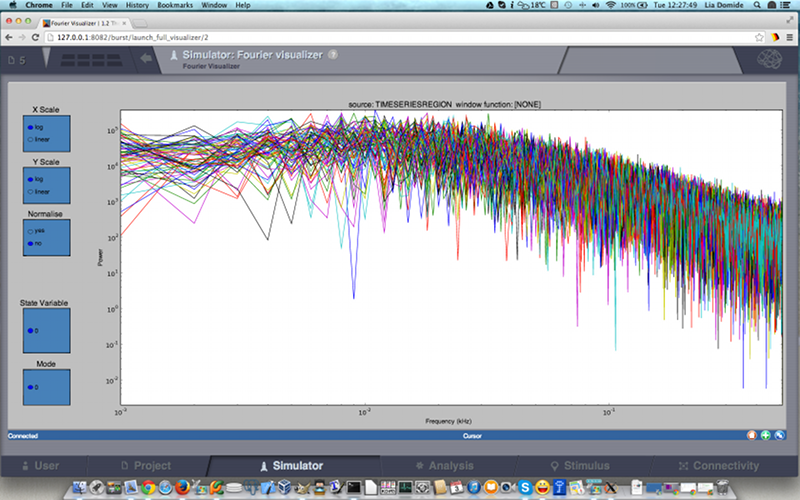
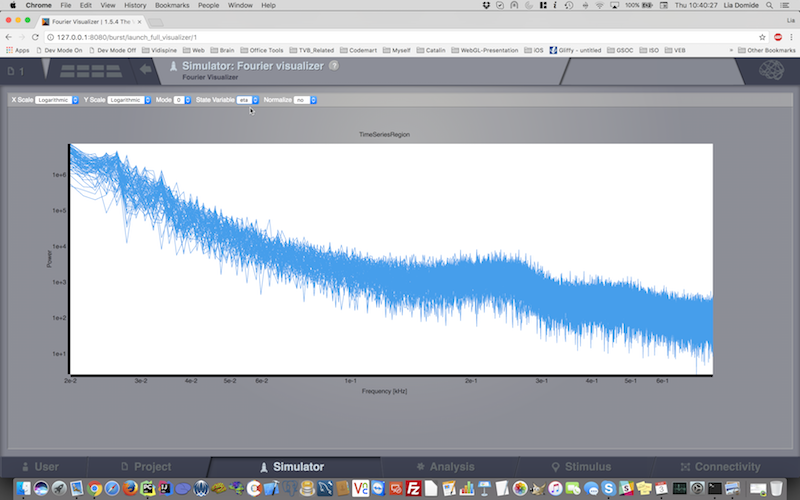
TVB-1974 Update Fourier Portlet snapshot. Fix Cross Coherence. Correct merge
git-svn-id: https://repo.thevirtualbrain.org/svn/tvb/trunk@8352 1c0e02f0-7929-43c0-8fb3-3293bf43b0d1

diff --git a/framework_tvb/tvb/interfaces/web/templates/genshi/visualizers/pearson_correlation/pearson_correlation.js b/framework_tvb/tvb/interfaces/web/templates/genshi/visualizers/pearson_correlation/pearson_correlation.js
@@ -44,20 +44,19 @@ var PearsonCorrelation = {
 
 function Pc_init(matrix_shape, title, labels, url_base, notes, pearson_min, pearson_max, w, h) {
     // setup dimensions, div, svg elements and plotter
-    var width = 900;
-    var height = 600;
+    let width = 900;
+    let height = 600;
     if (w !== undefined) {
         width = w;
         height = h;
     }
 
-    var div = d3.select("#pearson-viewer").attr("style", "width:" + width + "px;");
-    var svg = div.append("svg").attr("width", width).attr("height", height);
-    var group = svg.append("g").attr("transform", "translate(200, 0)");
-    var text = svg.append("g").attr("transform", "translate(20, 100)")
+    const div = d3.select("#pearson-viewer").attr("style", "width:" + width + "px;");
+    const svg = div.append("svg").attr("width", width).attr("height", height);
+    const group = svg.append("g").attr("transform", "translate(200, 0)");
+    const text = svg.append("g").attr("transform", "translate(20, 100)")
         .append("text").attr("class", "matrix-text");
-
-    var shape = $.parseJSON(matrix_shape);
+    const shape = $.parseJSON(matrix_shape);
     labels = $.parseJSON(labels);
 
     PearsonCorrelation.labels = labels;
@@ -71,26 +70,24 @@ function Pc_init(matrix_shape, title, labels, url_base, notes, pearson_min, pear
     PearsonCorrelation.notes = notes;
     PearsonCorrelation.title = title;
     PearsonCorrelation.url_base = url_base;
-    PearsonCorrelation.absolute_min = pearson_min;
-    PearsonCorrelation.absolute_max = pearson_max;
+    PearsonCorrelation.pearson_min = pearson_min;
+    PearsonCorrelation.pearson_max = pearson_max;
 
     tv.util.usage(div, title, notes);
 }
 
 function _Pc_plotFunction(matrix_data) {
-    var svg = PearsonCorrelation.svg;
     d3.selectAll("g").remove();
-    var group = svg.append("g").attr("transform", "translate(200, 0)");
-    var text = svg.append("g").attr("transform", "translate(20, 100)")
+    const svg = PearsonCorrelation.svg;
+    const group = svg.append("g").attr("transform", "translate(200, 0)");
+    const text = svg.append("g").attr("transform", "translate(20, 100)")
         .append("text").attr("class", "matrix-text");
-    var height = PearsonCorrelation.height;
-    var width = PearsonCorrelation.width;
-    var labels = PearsonCorrelation.labels;
-    var shape = PearsonCorrelation.shape;
+    const labels = PearsonCorrelation.labels;
+    const shape = PearsonCorrelation.shape;
 
     function mat_over(d, i) {
-        var x = Math.floor(i / shape[0]);
-        var y = Math.floor(i % shape[0]);
+        let x = Math.floor(i / shape[0]);
+        let y = Math.floor(i % shape[0]);
         if (x < y)
             return "";
         if (labels !== null) {
@@ -100,10 +97,10 @@ function _Pc_plotFunction(matrix_data) {
         return text.text("M[ " + x + ", " + y + " ] = " + d.toPrecision(3));
     }
 
-    var plot = tv.plot.mat().w(width - 200).h(height).mat_over(mat_over);
+    const plot = tv.plot.mat().w(PearsonCorrelation.width - 200).h(PearsonCorrelation.height).mat_over(mat_over);
     plot.half_only(true);
-    plot.pearson_min(PearsonCorrelation.pearson_min);
-    plot.pearson_max(PearsonCorrelation.pearson_max);
+    plot.absolute_min(PearsonCorrelation.pearson_min);
+    plot.absolute_max(PearsonCorrelation.pearson_max);
 
     plot.mat(tv.ndar.ndfrom({
             data: $.parseJSON(matrix_data),
@@ -115,10 +112,10 @@ function _Pc_plotFunction(matrix_data) {
 }
 
 function Pc_changeMode(mode) {
-    Pc_getData($("#state_select option:selected").val(), mode);
+    Pc_getData($("#state_select").find("option:selected").val(), mode);
 }
 function Pc_changeState(state) {
-    Pc_getData(state, $("#mode_select option:selected").text());
+    Pc_getData(state, $("#mode_select").find("option:selected").text());
 }
 
 function Pc_getData(state, mode) {

diff --git a/framework_tvb/tvb/adapters/visualizers/cross_coherence.py b/framework_tvb/tvb/adapters/visualizers/cross_coherence.py
@@ -35,6 +35,7 @@ A displayer for the cross coherence of a time series.
 
 """
 
+import json
 from tvb.adapters.visualizers.matrix_viewer import MappedArraySVGVisualizerMixin
 from tvb.core.adapters.abcdisplayer import ABCDisplayer
 from tvb.datatypes.spectral import CoherenceSpectrum
@@ -60,4 +61,5 @@ class CrossCoherenceVisualizer(MappedArraySVGVisualizerMixin, ABCDisplayer):
 
         params = self.compute_raw_matrix_params(array_data)
         params.update(frequency=frequency)
+        params.update(matrix_strides=json.dumps([x / array_data.itemsize for x in array_data.strides]))
         return self.build_display_result("cross_coherence/view", params)

diff --git a/framework_tvb/tvb/adapters/visualizers/fourier_spectrum.py b/framework_tvb/tvb/adapters/visualizers/fourier_spectrum.py
@@ -72,11 +72,7 @@ class FourierSpectrumDisplay(ABCDisplayer):
         shape = list(input_data.read_data_shape())
         state_list = input_data.source.labels_dimensions.get(input_data.source.labels_ordering[1], [])
         mode_list = range(shape[3])
-<<<<<<< HEAD
-        available_scales = ["linear", "log"]
-=======
         available_scales = ["Linear", "Logarithmic"]
->>>>>>> 9f4b8f98aa160a6382cf1f00fee2700befc8101f
 
         params = dict(matrix_shape=json.dumps([shape[0], shape[2]]),
                       plotName=input_data.source.type,
